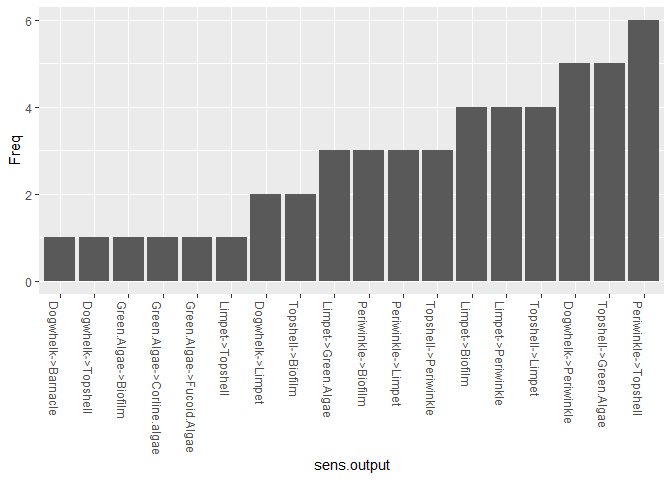
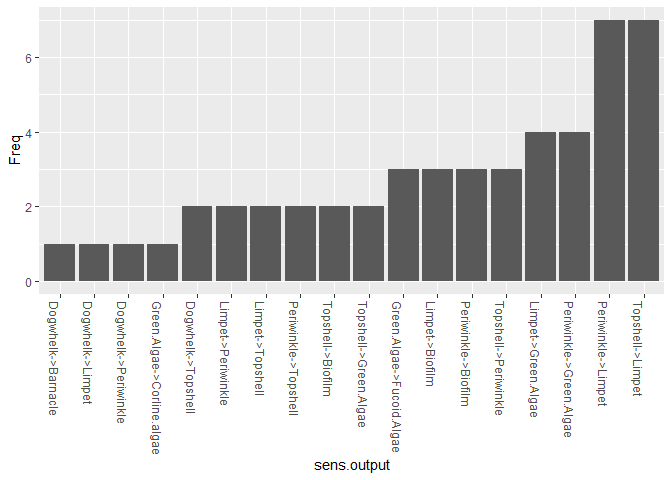
May 2024

diff --git a/README.md b/README.md
@@ -101,6 +101,7 @@ library(bbnet)
 #>     as_data_frame
 
 data("my_BBN")
+#> Warning in data("my_BBN"): data set 'my_BBN' not found
 
 head(my_BBN)
 #>             X Dogwhelk Topshell Limpet Periwinkle Barnacle Green.Algae Biofilm
@@ -135,6 +136,11 @@ Scenarios are loaded in as follows:
 
 ``` r
 data("dogwhelk", "winkle", "combined")
+#> Warning in data("dogwhelk", "winkle", "combined"): data set 'dogwhelk' not
+#> found
+#> Warning in data("dogwhelk", "winkle", "combined"): data set 'winkle' not found
+#> Warning in data("dogwhelk", "winkle", "combined"): data set 'combined' not
+#> found
 
 head(dogwhelk)
 #>   Increase        Node
@@ -428,23 +434,23 @@ bbn.sensitivity(bbn.model = my_BBN, boot_max = 100, 'Limpet', 'Green Algae')
 
     #>                   sens.output Freq
     #> 1          Dogwhelk->Barnacle    1
-    #> 2          Dogwhelk->Topshell    1
-    #> 3        Green.Algae->Biofilm    1
+    #> 2            Dogwhelk->Limpet    1
+    #> 3        Dogwhelk->Periwinkle    1
     #> 4  Green.Algae->Corline.algae    1
-    #> 5   Green.Algae->Fucoid.Algae    1
-    #> 6            Limpet->Topshell    1
-    #> 7            Dogwhelk->Limpet    2
-    #> 8           Topshell->Biofilm    2
-    #> 9         Limpet->Green.Algae    3
-    #> 10        Periwinkle->Biofilm    3
-    #> 11         Periwinkle->Limpet    3
-    #> 12       Topshell->Periwinkle    3
-    #> 13            Limpet->Biofilm    4
-    #> 14         Limpet->Periwinkle    4
-    #> 15           Topshell->Limpet    4
-    #> 16       Dogwhelk->Periwinkle    5
-    #> 17      Topshell->Green.Algae    5
-    #> 18       Periwinkle->Topshell    6
+    #> 5          Dogwhelk->Topshell    2
+    #> 6          Limpet->Periwinkle    2
+    #> 7            Limpet->Topshell    2
+    #> 8        Periwinkle->Topshell    2
+    #> 9           Topshell->Biofilm    2
+    #> 10      Topshell->Green.Algae    2
+    #> 11  Green.Algae->Fucoid.Algae    3
+    #> 12            Limpet->Biofilm    3
+    #> 13        Periwinkle->Biofilm    3
+    #> 14       Topshell->Periwinkle    3
+    #> 15        Limpet->Green.Algae    4
+    #> 16    Periwinkle->Green.Algae    4
+    #> 17         Periwinkle->Limpet    7
+    #> 18           Topshell->Limpet    7
 
 The function works by bootstrapping with multiple changes to prior
 values and interaction strengths in the network. The frequency shows the
@@ -472,6 +478,7 @@ allows for the colour coding.
 
 ``` r
 data("my_network")
+#> Warning in data("my_network"): data set 'my_network' not found
 
 head(my_network)
 #>    id node.type   node.name Dogwhelk Topshell Limpet Periwinkle Barnacle
